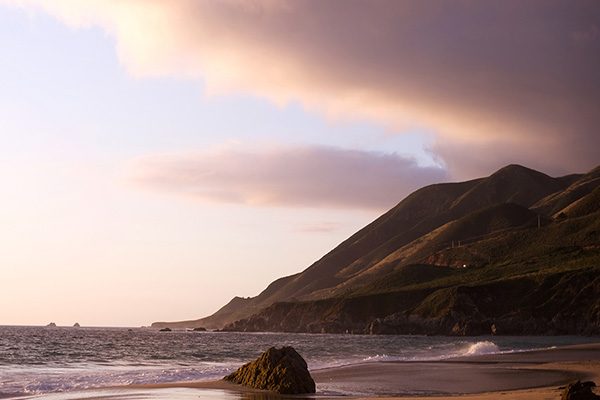
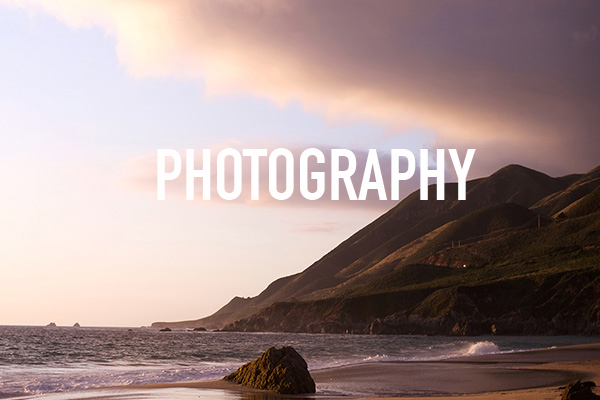
Updated videos.html

Changed region(s): [[0.24, 0.36, 0.81, 0.51]]

diff --git a/videos.html b/videos.html
@@ -52,7 +52,7 @@
     </div>
 
 
-	<div id="workwrap" class="photo">
+	<div id="workwrap" class="motion">
 	    <div class="container">
 			<div class="row">
 				<div class="col-lg-6 col-lg-offset-3">
@@ -69,20 +69,24 @@
 		<div class="row centered mt mb">
 			<div class="col-lg-8 col-lg-offset-2">
 				
-				<p>I love Motion - whether that be animating, graphics or live footage! NKU introduced me to the world of motion and since then over the years I found ways to keep pursuing it, through personal projects and projects at work!</p>
+				<p>I love Motion - whether that be animating graphics or live footage! NKU introduced me to the world of motion and over the years I found ways to keep pursuing it, through personal projects and projects at work!</p>
+				<p> Thinking up a way to tell a story in a bunch of different ways through storyboarding then seeing it come to life is the best feeling in the world. </p>
 			</div>
 			<div class="col-sm-10 col-sm-offset-1 mt">
-				<iframe src="https://player.vimeo.com/video/173417550" width="640" height="360" frameborder="0" webkitallowfullscreen mozallowfullscreen allowfullscreen></iframe>
-				<p>Video Description </p>
-				<br><br>
+				
 				<iframe src="https://player.vimeo.com/video/173419182" width="640" height="360" frameborder="0" webkitallowfullscreen mozallowfullscreen allowfullscreen></iframe>
 				<p>Video Description</p>		
 				<br><br>
+				<iframe src="https://player.vimeo.com/video/173423894" width="640" height="360" frameborder="0" webkitallowfullscreen mozallowfullscreen allowfullscreen></iframe>
+				<p>Video Description</p>
+				<br><br>
+				
 				<iframe src="https://player.vimeo.com/video/70511416" width="640" height="353" frameborder="0" webkitallowfullscreen mozallowfullscreen allowfullscreen></iframe>
 				<p>Video Description</p>
 				<br><br>
-				<iframe src="https://player.vimeo.com/video/173423894" width="640" height="360" frameborder="0" webkitallowfullscreen mozallowfullscreen allowfullscreen></iframe>
-				<p>Video Description</p>
+			
+				<iframe src="https://player.vimeo.com/video/173417550" width="640" height="360" frameborder="0" webkitallowfullscreen mozallowfullscreen allowfullscreen></iframe>
+				<p>Video Description </p>
 				<br><br>
 			</div>
 			

diff --git a/assets/css/style.css b/assets/css/style.css
@@ -205,6 +205,10 @@ h1, h2, h3, h4, h5, h6 {
 	background: url(../img/work-photo.jpg) no-repeat center top;
 	}
 
+#workwrap.motion {	
+	background: url(../img/work-motion.jpg) no-repeat center top;
+	}
+
 #workwrap h1 {
 	color:#ffffff;
 	padding-top: 10px;
